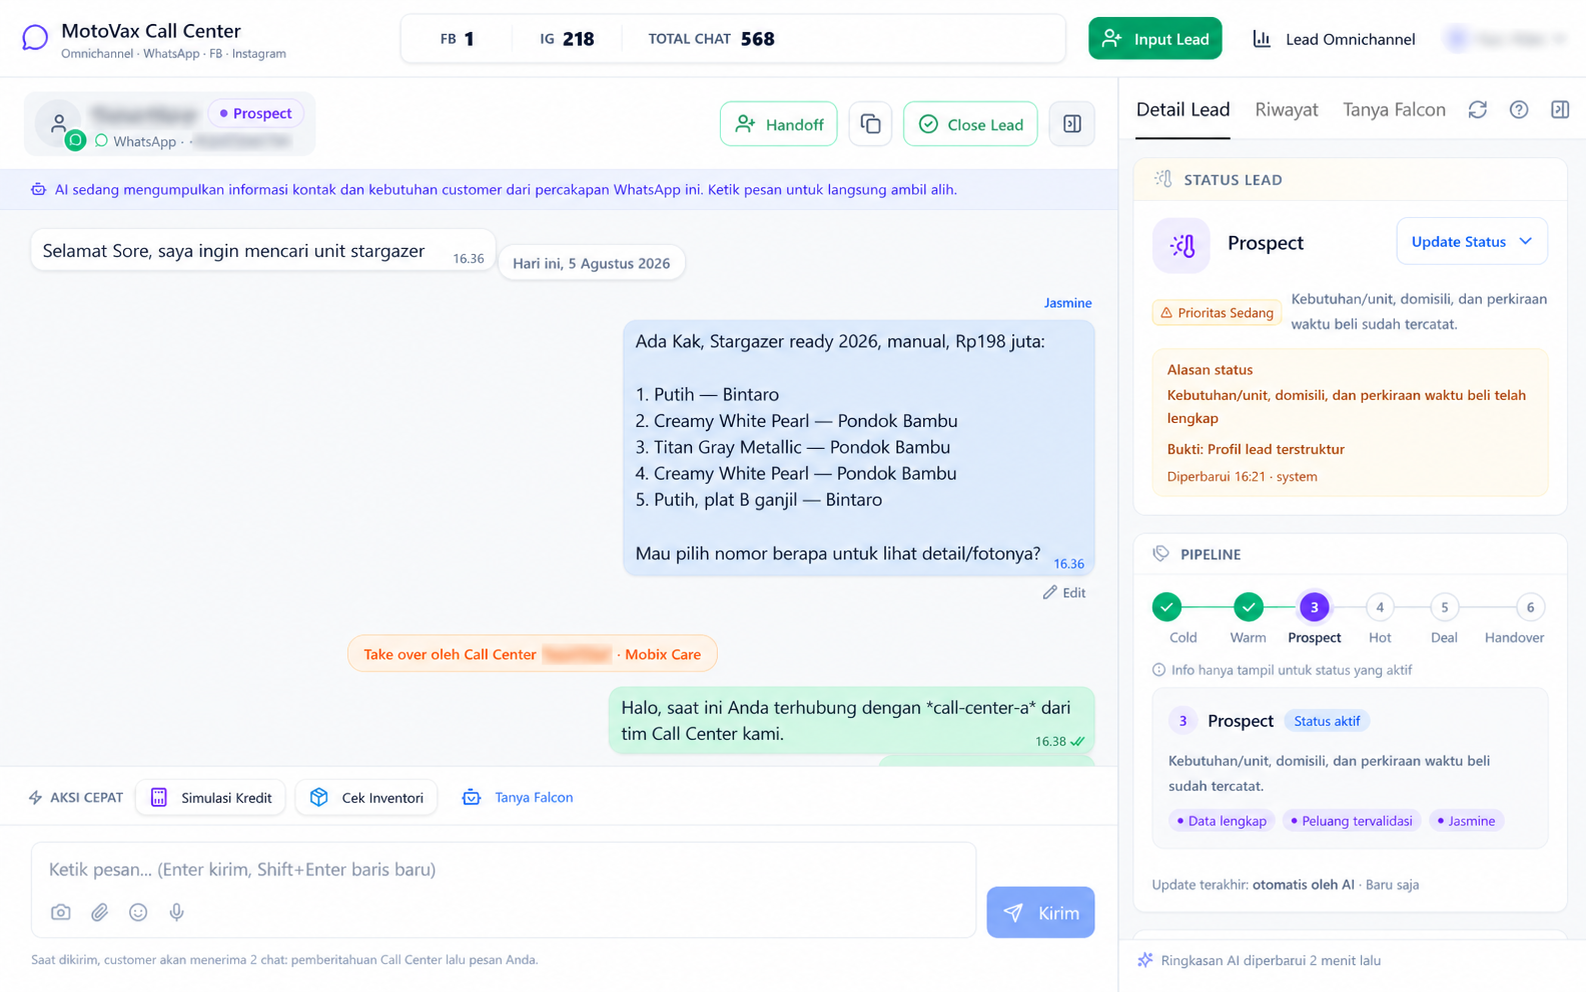
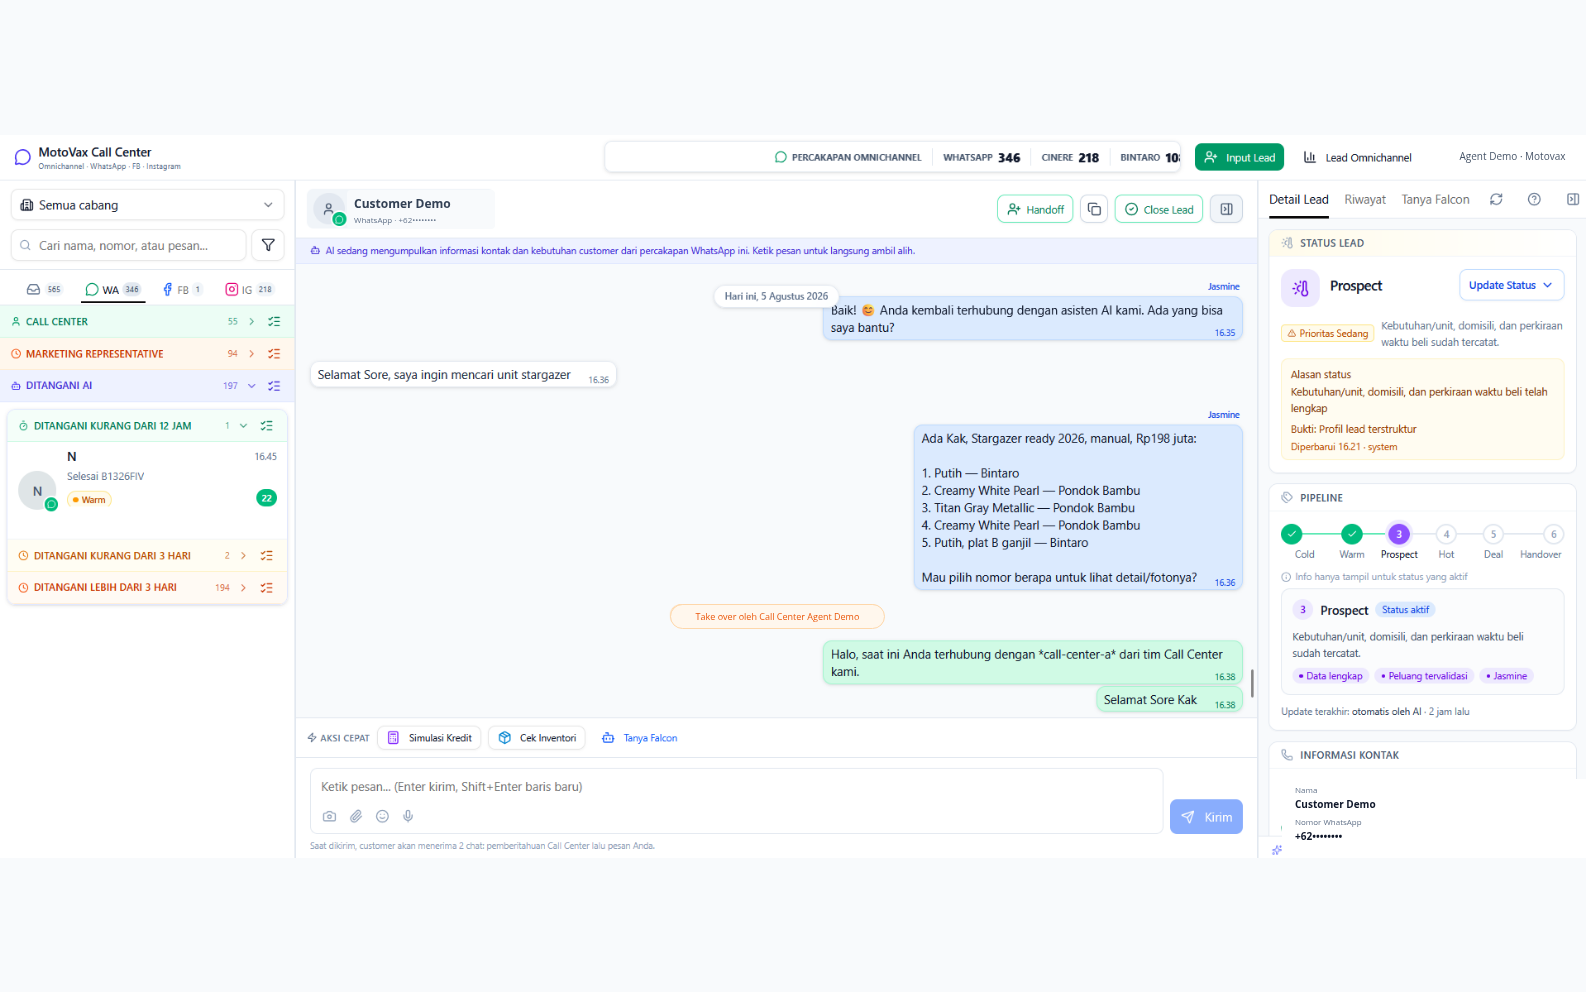
Ganti image fitur native AI dengan conversation lengkap

diff --git a/fitur/feature-page.js b/fitur/feature-page.js
@@ -627,7 +627,7 @@
     } else if (slug === "core-platform-agentic-ai" && /integrasi channel/i.test(capabilityTitle)) {
       preview = captured("core-platform-whatsapp-integrations-public.png", "Core Platform · Integrasi WhatsApp", "WhatsApp Sales dan Call Center aktif dalam satu pusat konfigurasi tanpa menampilkan kanal yang tidak relevan.");
     } else if (slug === "core-platform-agentic-ai" && /agentic ai|native tools/i.test(capabilityTitle)) {
-      preview = captured("core-platform-native-ai-tools-public.png", "Core Platform · Native AI Tools", "Jasmine memakai inventori tenant untuk menjawab kebutuhan unit, memperbarui konteks lead, dan mendukung takeover serta handoff sesuai role.");
+      preview = captured("core-platform-native-ai-tools-public.png?v=20260805-2", "Core Platform · Native AI Tools", "Jasmine memakai inventori tenant untuk menjawab kebutuhan unit, memperbarui konteks lead, dan mendukung takeover serta handoff sesuai role.");
     } else if (slug === "inventory-falcon-ai" && /listing|import|validasi/i.test(capabilityTitle)) {
       preview = captured("product-social-studio.png", "Inventory · Unit Ready", "Unit ready dari inventory tenant tersedia sebagai sumber data dan materi operasional.");
     } else if (slug === "inventory-falcon-ai" && /falcon|foto|rekomendasi/i.test(capabilityTitle)) {

diff --git a/fitur/core-platform-agentic-ai.html b/fitur/core-platform-agentic-ai.html
@@ -66,7 +66,7 @@
 
     <script>window.__FEATURE_SLUG__ = "core-platform-agentic-ai";</script>
     <script src="./features-data.js"></script>
-    <script src="./feature-page.js?v=20260805-1"></script>
+    <script src="./feature-page.js?v=20260805-2"></script>
     <script src="../script.js"></script>
   </body>
 </html>
